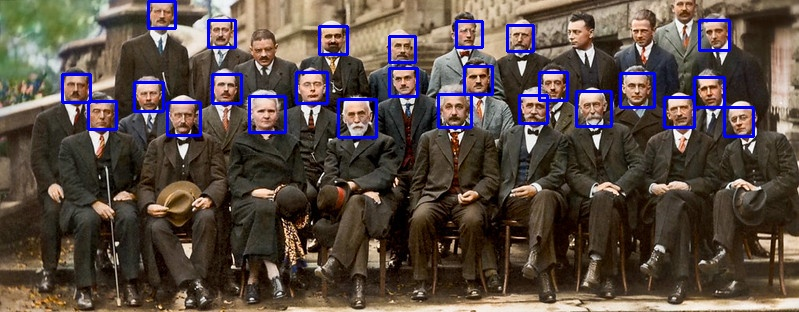
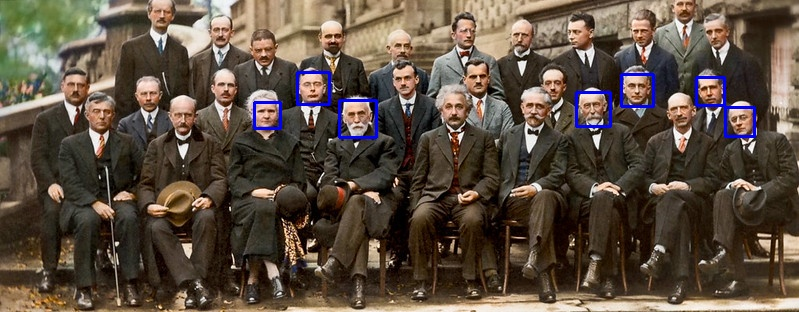
fourth commit

diff --git a/practice3.py b/practice3.py
@@ -23,7 +23,7 @@ dst_area = cv2.imread('./image/solbay.jpg')
 src_gray = cv2.cvtColor(src, cv2.COLOR_BGR2GRAY)
 
 #얼굴 인식
-faces = face_cascade.detectMultiScale(src_gray,1.1,4)
+faces = face_cascade.detectMultiScale(src_gray,1.3,5)
 
 
 #얼굴 검출 횟수
@@ -38,7 +38,7 @@ for x, y, w, h in faces:
     face = src[y: y + h, x: x + w]
     face_gray = src_gray[y: y + h, x: x + w]
 
-    #검출된 부분 잘라서 화면에 출력
+    #검출된 부분만 잘라서 한개씩 이미지파일로 저장
     for (x, y, w, h) in faces:
         trim_img=src[y-int(h/4):y+h+int(h/4), x-int(w/4):x+w+int(w/4)]
         cv2.imwrite('./result_file/trim_area/trimed_image'+ str(img_num) + '.jpg', trim_img)
@@ -57,4 +57,3 @@ for x, y, w, h in faces:
 #결과
 cv2.imwrite('./result_file/face_mosaic_area.jpg', dst_area)
 cv2.imwrite('./result_file/face_cascade.jpg', src)
-
